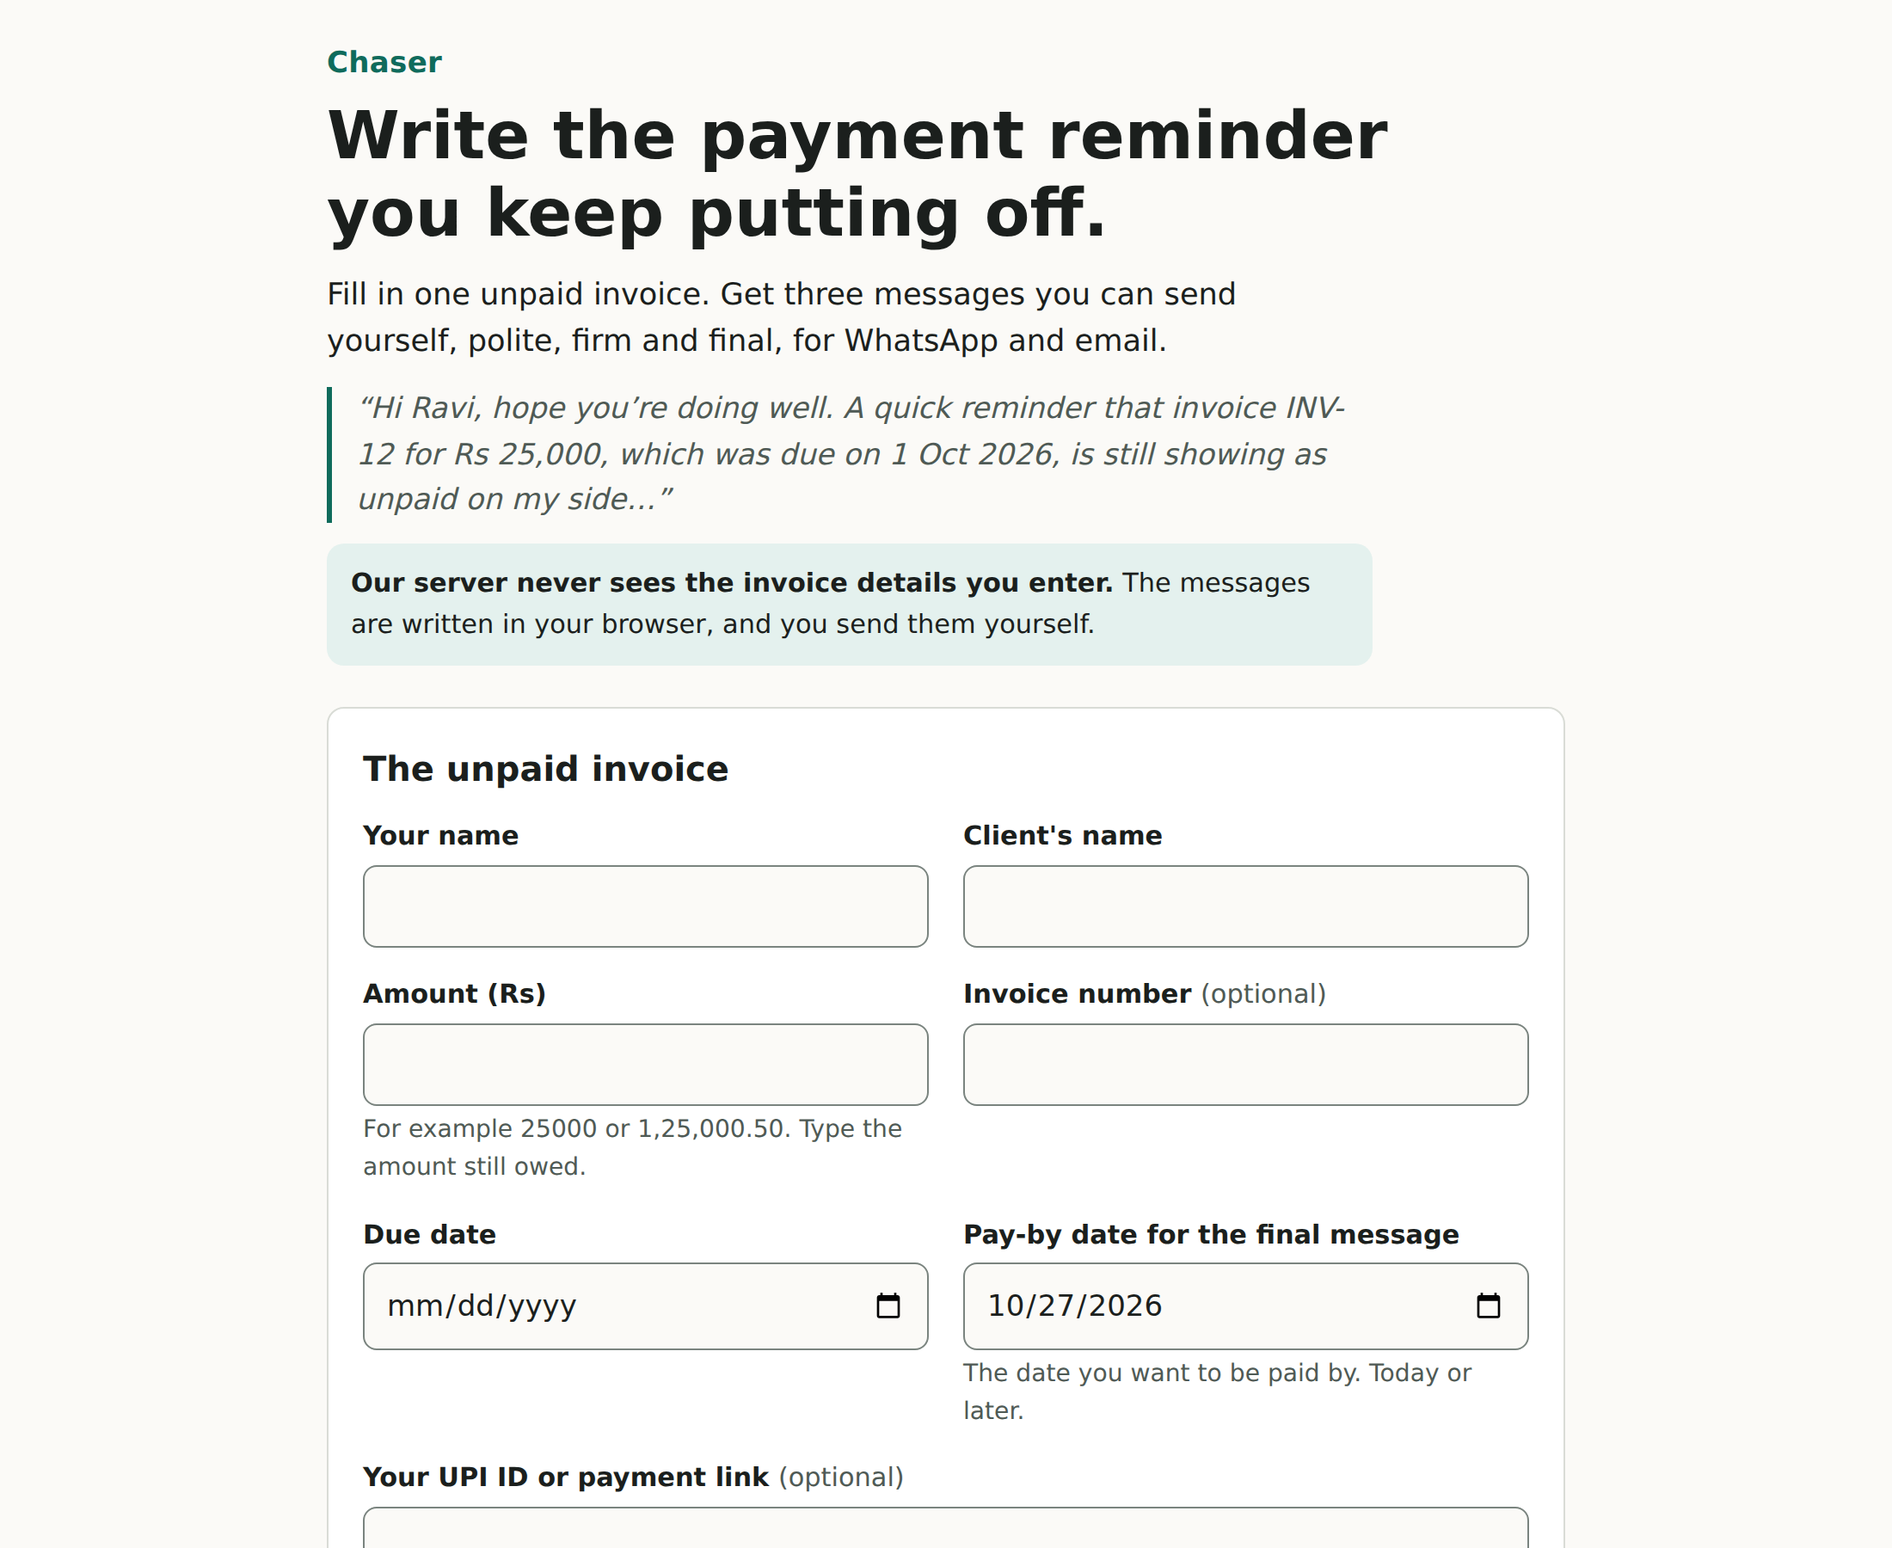
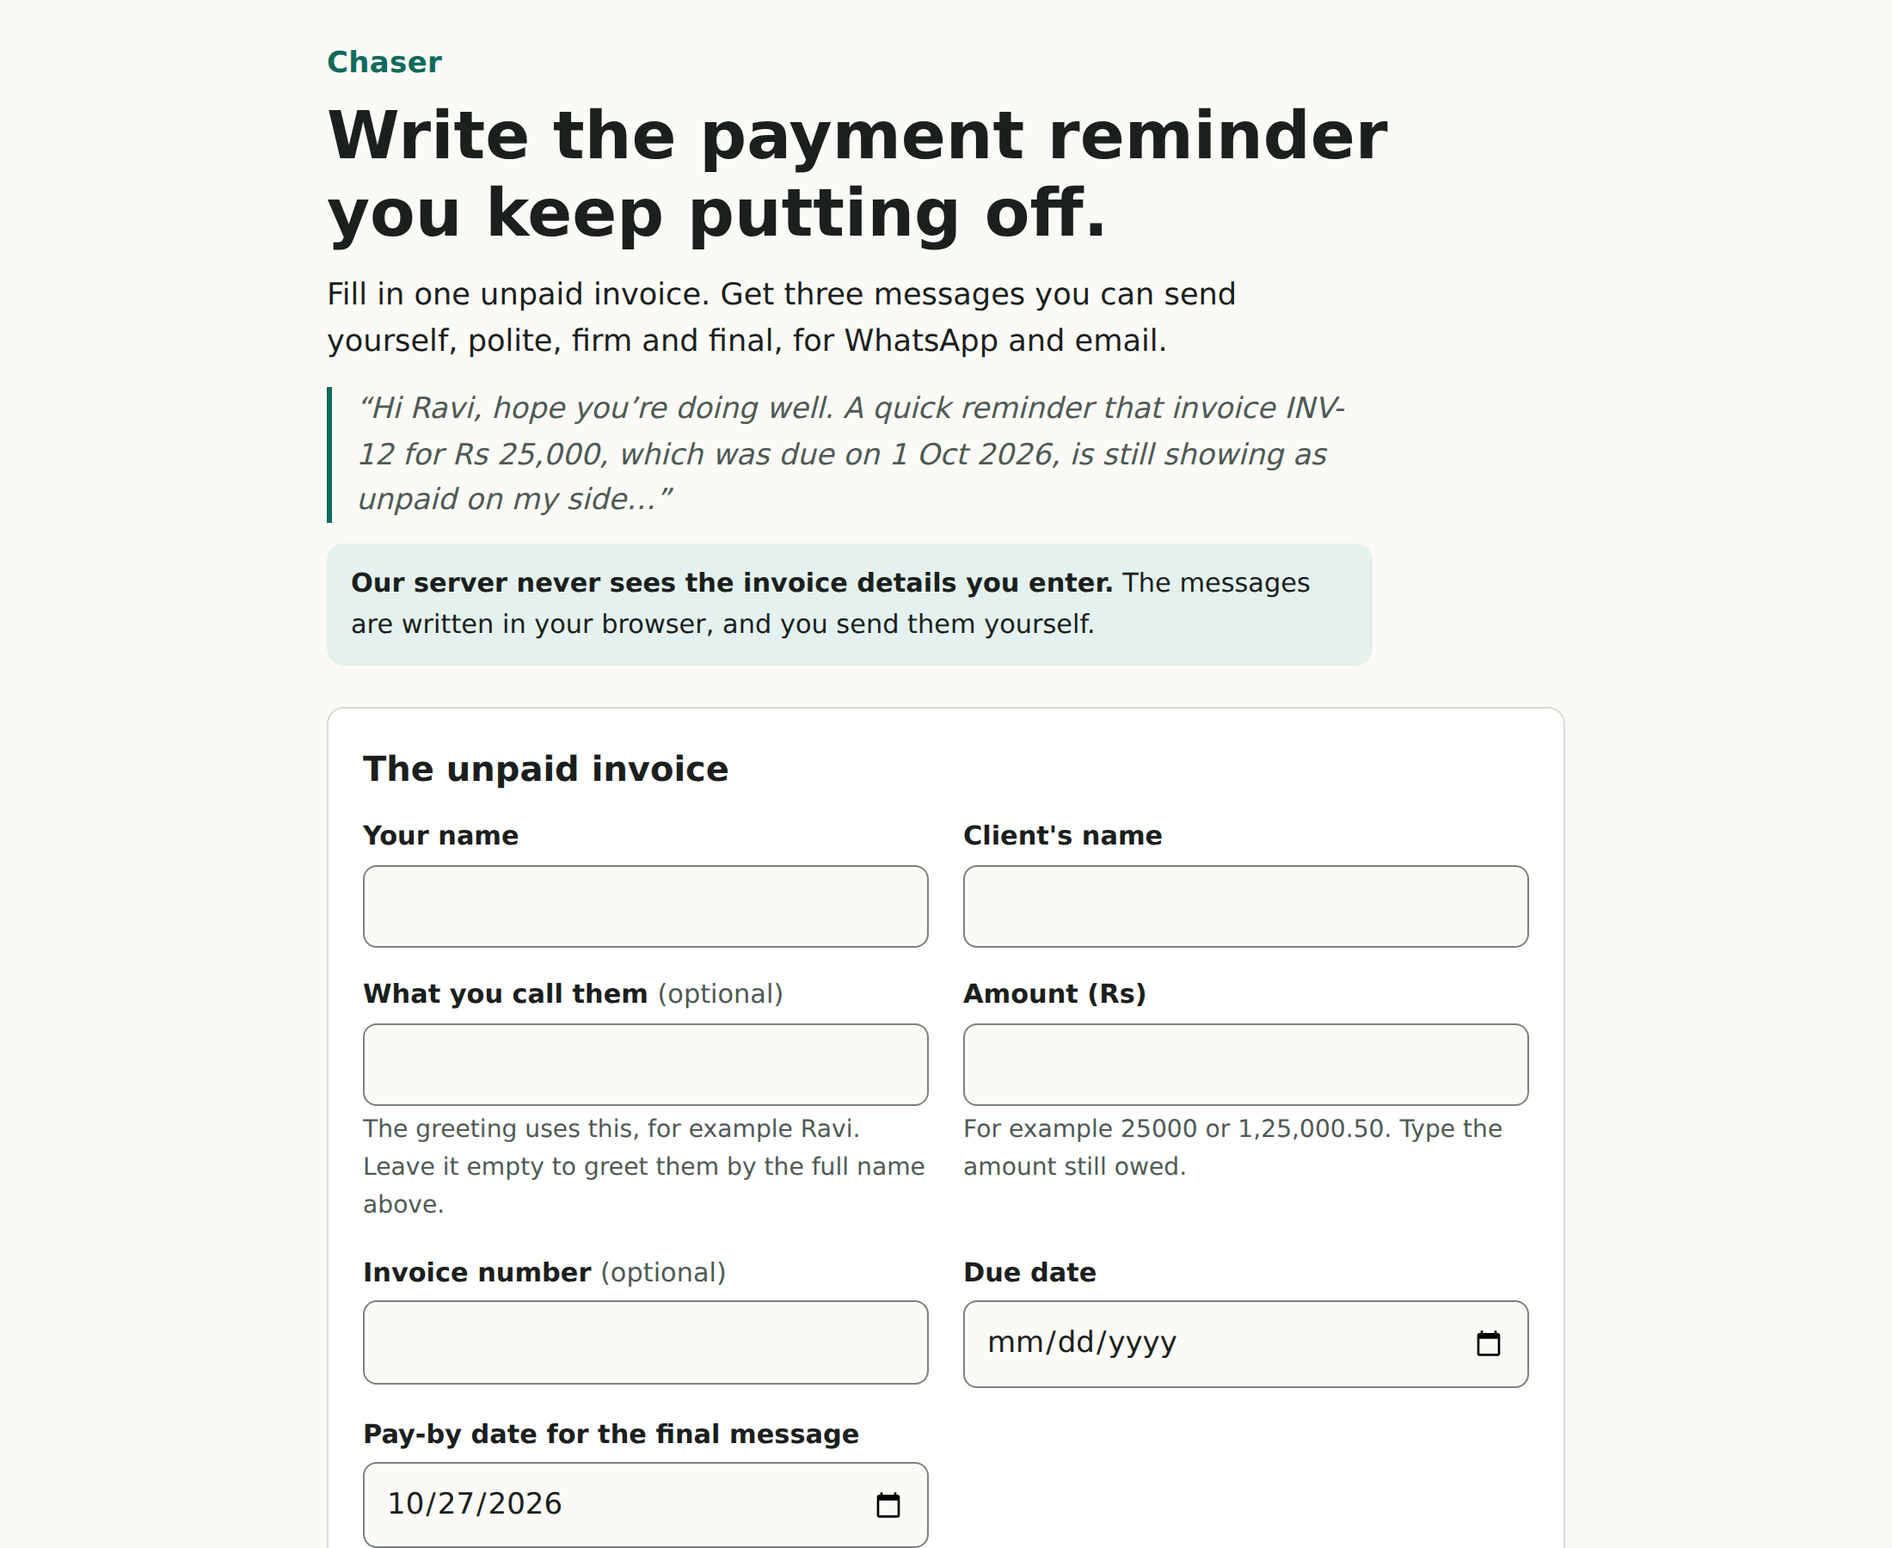
chaser: short-name greeting, Polite only when not yet due, confirm before replacing edits, suggested card first
Claude-Session: https://claude.ai/code/session_01KHRvdBp9dNMhM5LyW9cT2y

diff --git a/examples/chaser/e2e/ui.e2e.js b/examples/chaser/e2e/ui.e2e.js
@@ -57,10 +57,10 @@ test("happy path: three messages with the right amount, dates and working send l
   const polite = await page.locator("#wa-polite").inputValue();
   assert.match(polite, /^Hi Ravi Traders,/);
   assert.match(polite, /Rs 1,25,000\.50/);
-  const href = await page.locator("article.msg").first().getByRole("link", { name: "Open in WhatsApp" }).getAttribute("href");
+  const href = await page.locator("article.msg:has(#wa-polite)").getByRole("link", { name: "Open in WhatsApp" }).getAttribute("href");
   assert.ok(href.startsWith("https://wa.me/?text="));
   assert.equal(decodeURIComponent(href.slice(20)), polite);
-  const link = page.locator("article.msg").first().getByRole("link", { name: "Open in WhatsApp" });
+  const link = page.locator("article.msg:has(#wa-polite)").getByRole("link", { name: "Open in WhatsApp" });
   assert.equal(await link.getAttribute("rel"), "noopener noreferrer");
   assert.equal(await link.getAttribute("target"), "_blank");
   assert.match(await page.locator("#wa-final").inputValue(), /pay further work|pause further work/);
@@ -74,11 +74,12 @@ test("results: the suggested message is marked, every message is fully visible, 
   await page.locator("#results").waitFor();
   assert.match(await page.locator("#summary").innerText(), /Suggested: start with Firm/);
   const cards = page.locator("article.msg");
-  assert.equal(await cards.nth(1).getAttribute("class"), "card msg suggested");
-  assert.equal(await cards.nth(1).locator(".tag").innerText(), "Suggested");
+  assert.equal(await cards.nth(0).getAttribute("class"), "card msg suggested", "the suggested message comes first");
+  assert.equal(await cards.nth(0).locator("textarea").getAttribute("id"), "wa-firm");
+  assert.equal(await cards.nth(0).locator(".tag").innerText(), "Suggested");
   assert.equal(await page.locator(".tag").count(), 1);
   assert.equal(await page.locator("article.msg a.btn:not(.quiet)").count() >= 1, true);
-  assert.equal(await cards.nth(0).getByRole("link", { name: "Open in WhatsApp" }).getAttribute("class"), "btn quiet");
+  assert.equal(await cards.nth(1).getByRole("link", { name: "Open in WhatsApp" }).getAttribute("class"), "btn quiet");
   for (const id of ["wa-polite", "wa-firm", "wa-final"]) {
     const clipped = await page.locator("#" + id).evaluate((t) => t.scrollHeight > t.clientHeight + 2);
     assert.equal(clipped, false, `${id} is cut off`);
@@ -101,7 +102,7 @@ test("editing a message updates its WhatsApp link", async () => {
   const { context, page } = await newPage();
   await generate(page);
   await page.locator("#wa-firm").fill("My own words, Rs 5 only");
-  const href = await page.locator("article.msg").nth(1).getByRole("link", { name: "Open in WhatsApp" }).getAttribute("href");
+  const href = await page.locator("article.msg:has(#wa-firm)").getByRole("link", { name: "Open in WhatsApp" }).getAttribute("href");
   assert.equal(decodeURIComponent(href.slice(20)), "My own words, Rs 5 only");
   await context.close();
 });
@@ -110,13 +111,36 @@ test("review fixes: a rupee sign is accepted, the email text can be copied, and 
   const { context, page } = await newPage(open, { permissions: ["clipboard-read", "clipboard-write"] });
   await generate(page, { amount: "\u20b925,000" });
   assert.match(await page.locator("#check").innerText(), /Rs 25,000/);
-  const card = page.locator("article.msg").nth(1);
+  const card = page.locator("article.msg:has(#wa-firm)");
   await card.locator("summary").click();
   await card.getByRole("button", { name: /Copy the firm email/ }).click();
   const copied = await page.evaluate(() => navigator.clipboard.readText());
   assert.match(copied, /^Subject: .+\n\n[\s\S]*Rs 25,000/);
   await page.getByRole("button", { name: "I would pay for this" }).click();
   assert.equal(await page.evaluate(() => document.activeElement?.id), "door-thanks");
+  await context.close();
+});
+
+test("review fixes 2: the greeting can use a short name; an invoice not yet due shows Polite and keeps the rest behind a button; edits are not replaced without asking", async () => {
+  const { context, page } = await newPage();
+  await generate(page, { call: "Ravi", due: shift(5) });
+  assert.match(await page.locator("#wa-polite").inputValue(), /^Hi Ravi,/);
+  assert.equal(await page.locator("#later").isHidden(), true, "firm and final wait behind a button");
+  assert.equal(await page.locator("article.msg:visible").count(), 1);
+  await page.getByRole("button", { name: "Show the firm and final messages" }).click();
+  assert.equal(await page.locator("article.msg:visible").count(), 3);
+  assert.equal(await page.evaluate(() => document.activeElement.tagName), "TEXTAREA");
+  // an edited message is not thrown away silently
+  await page.locator("#wa-polite").fill("My own words");
+  let asked = 0;
+  page.once("dialog", (d) => { asked++; d.dismiss(); });
+  await page.getByRole("button", { name: "Write my messages" }).click();
+  assert.equal(asked, 1);
+  assert.equal(await page.locator("#wa-polite").inputValue(), "My own words", "Cancel keeps the edit");
+  page.once("dialog", (d) => { asked++; d.accept(); });
+  await page.getByRole("button", { name: "Write my messages" }).click();
+  assert.equal(asked, 2);
+  assert.match(await page.locator("#wa-polite").inputValue(), /^Hi Ravi,/, "OK writes fresh messages");
   await context.close();
 });
 
@@ -258,7 +282,7 @@ test("only the keyboard: fill every field by typing, submit, reach copy and send
   const mdy = (iso) => { const [y, m, d] = iso.split("-"); return m + d + y; };
   await page.locator("#me").focus();
   const order = [];
-  for (const [id, text] of [["me", "Asha"], ["client", "Ravi"], ["amount", "5000"], ["invoice", ""], ["due", mdy(shift(-3))], ["deadline", mdy(shift(5))], ["pay", ""]]) {
+  for (const [id, text] of [["me", "Asha"], ["client", "Ravi"], ["call", ""], ["amount", "5000"], ["invoice", ""], ["due", mdy(shift(-3))], ["deadline", mdy(shift(5))], ["pay", ""]]) {
     assert.equal(await page.evaluate(() => document.activeElement.id), id, `focus should be on ${id}`);
     order.push(id);
     if (text) await page.keyboard.type(text);
@@ -266,7 +290,7 @@ test("only the keyboard: fill every field by typing, submit, reach copy and send
     // a date field has month, day and year parts: after typing all three, one more Tab leaves it
     if ((id === "due" || id === "deadline") && (await page.evaluate(() => document.activeElement.id)) === id) await page.keyboard.press("Tab");
   }
-  assert.deepEqual(order, ["me", "client", "amount", "invoice", "due", "deadline", "pay"]);
+  assert.deepEqual(order, ["me", "client", "call", "amount", "invoice", "due", "deadline", "pay"]);
   assert.equal(await page.evaluate(() => document.activeElement.textContent), "Write my messages");
   await page.keyboard.press("Enter");
   await page.locator("#results").waitFor();

diff --git a/examples/chaser/public/app.js b/examples/chaser/public/app.js
@@ -3,7 +3,7 @@ import { validateInput, generateMessages, whatsappLink, mailtoLink, formatRupees
 const $ = (id) => document.getElementById(id);
 const params = new URLSearchParams(location.search);
 const src = params.get("src") ?? undefined;
-const FIELDS = ["me", "client", "amount", "invoice", "due", "deadline", "pay"];
+const FIELDS = ["me", "client", "call", "amount", "invoice", "due", "deadline", "pay"];
 /** Which message fits today: a few days late, about two weeks late, or well past that. Only a suggestion. */
 const suggest = (days) => (days <= 0 ? "polite" : days <= 7 ? "polite" : days <= 21 ? "firm" : "final");
 const WHEN = {
@@ -75,6 +75,7 @@ $("form").addEventListener("submit", (e) => {
   const result = validateInput(readForm(), today);
   showErrors(result.errors);
   if (!result.ok) return;
+  if ($("messages").querySelector("textarea[data-edited]") && !confirm("Writing the messages again will replace the changes you made to them. Continue?")) return;
   render(result.value, today);
   track("generate");
 });
@@ -93,13 +94,21 @@ function render(v, today) {
   const label = out.messages.find((m) => m.tone === best).label;
   $("summary").textContent = out.overdue
     ? `This invoice is ${out.days} day${out.days === 1 ? "" : "s"} overdue (counted from today's date on your device). Suggested: start with ${label}.`
-    : "This invoice is not overdue yet, so the polite message fits best. Keep the firm and final ones for later.";
+    : "This invoice is not overdue yet, so the polite message fits best. The firm and final ones are below, for later.";
   const check = $("check"); check.textContent = "";
   const rows = [["Client", v.client], ["Amount", formatRupees(v.paise)], ["Due date", formatDate(v.due)], ["Pay-by date (final message)", formatDate(v.deadline)], ["Pay to", v.pay || "No payment details added"]];
   for (const [k, val] of rows) check.append(el("dt", { text: k }), el("dd", { text: val }));
 
   const box = $("messages"); box.textContent = "";
-  for (const m of out.messages) box.append(messageCard(m, m.tone === best));
+  // The suggested message comes first; when nothing is overdue the other two wait behind a button.
+  const ordered = [...out.messages.filter((m) => m.tone === best), ...out.messages.filter((m) => m.tone !== best)];
+  const later = out.overdue ? null : el("div", { id: "later", hidden: "" });
+  ordered.forEach((m, i) => (later && i > 0 ? later : box).append(messageCard(m, m.tone === best)));
+  if (later) {
+    const show = el("button", { type: "button", class: "secondary", "aria-controls": "later", "aria-expanded": "false", text: "Show the firm and final messages" });
+    show.addEventListener("click", () => { later.hidden = false; show.hidden = true; later.querySelector("textarea").focus(); });
+    box.append(show, later);
+  }
   const results = $("results"); results.hidden = false;
   results.focus(); results.scrollIntoView({ behavior: matchMedia("(prefers-reduced-motion: reduce)").matches ? "auto" : "smooth", block: "start" });
 }
@@ -109,7 +118,7 @@ function messageCard(m, suggested) {
   const ta = el("textarea", { id: `wa-${m.tone}`, "aria-label": `${m.label} message for WhatsApp, you can edit it`, spellcheck: "true" });
   ta.value = m.whatsapp;
   const wa = el("a", { class: suggested ? "btn" : "btn quiet", href: whatsappLink(m.whatsapp), target: "_blank", rel: "noopener noreferrer", text: "Open in WhatsApp" });
-  ta.addEventListener("input", () => { wa.href = whatsappLink(ta.value); grow(ta); });
+  ta.addEventListener("input", () => { wa.href = whatsappLink(ta.value); grow(ta); ta.dataset.edited = "1"; });
   const copy = el("button", { type: "button", class: "secondary", text: "Copy text" });
   const asked = el("p", { class: "sent", hidden: "" });
   const askSent = () => {

diff --git a/examples/chaser/tests/core.test.js b/examples/chaser/tests/core.test.js
@@ -150,3 +150,12 @@ test("generating messages makes no network call and reads no browser state (pure
   globalThis.fetch = () => { throw new Error("network call during generation"); };
   try { gen(); } finally { globalThis.fetch = saved.fetch; }
 });
+
+test("greeting: uses 'what you call them' when given, the full client name otherwise, and the optional field is length-checked", () => {
+  assert.match(gen({ call: "Ravi" }).messages[0].whatsapp, /^Hi Ravi,\n/);
+  assert.match(gen({ call: "Ravi" }).messages[0].email.body, /^Dear Ravi,\n/);
+  assert.match(gen({ call: "  " }).messages[0].whatsapp, /^Hi Ravi Traders,\n/);
+  assert.match(gen().messages[2].whatsapp, /^Hi Ravi Traders,\n/);
+  assert.equal(validateInput({ ...base, call: "x".repeat(31) }, TODAY).ok, false);
+  assert.equal(validateInput({ ...base, call: "Ra\nvi" }, TODAY).ok, false);
+});

diff --git a/examples/chaser/public/index.html b/examples/chaser/public/index.html
@@ -34,6 +34,12 @@
         <p class="err" id="client-err"></p>
       </div>
       <div class="field">
+        <label for="call">What you call them <span class="opt">(optional)</span></label>
+        <input id="call" name="call" type="text" autocomplete="off" maxlength="30" aria-describedby="call-hint call-err">
+        <p class="hint" id="call-hint">The greeting uses this, for example Ravi. Leave it empty to greet them by the full name above.</p>
+        <p class="err" id="call-err"></p>
+      </div>
+      <div class="field">
         <label for="amount">Amount (Rs)</label>
         <input id="amount" name="amount" type="text" inputmode="decimal" autocomplete="off" required aria-describedby="amount-hint amount-err">
         <p class="hint" id="amount-hint">For example 25000 or 1,25,000.50. Type the amount still owed.</p>

diff --git a/examples/chaser/src/core/messages.js b/examples/chaser/src/core/messages.js
@@ -31,7 +31,7 @@ export function generateMessages(v, today) {
   const when = overdue ? `which was due on ${due}` : days === 0 ? `which is due today (${due})` : `which is due on ${due}`;
   const ago = overdue ? ` (${days} day${days === 1 ? "" : "s"} ago)` : "";
   const sign = v.me;
-  const hi = `Hi ${v.client},`;
+  const hi = `Hi ${v.call || v.client},`; // "what you call them" is optional; the full client name is the default
 
   const polite = {
     wa: lines(

diff --git a/examples/chaser/src/core/validate.js b/examples/chaser/src/core/validate.js
@@ -20,6 +20,7 @@ export function validateInput(raw, today) {
   const value = {
     me: text("me", "your name", 60),
     client: text("client", "the client's name", 60),
+    call: text("call", "what you call them", 30, false),
     invoice: text("invoice", "the invoice number", 30, false),
     pay: text("pay", "a UPI ID or payment link", 120, false),
   };

diff --git a/examples/chaser/docs/design-critique.md b/examples/chaser/docs/design-critique.md
@@ -30,15 +30,15 @@ Evidence: `docs/screenshots/before/` (the build before the first critique, regen
 
 | # | Finding | Status |
 |---|---|---|
-| 1 | Greeting uses the full client name ("Hi Ravi Kumar"), sample says "Hi Ravi" | **Open, owner decision.** First-word greetings break on "Dr Rao" and company names; a "what do you call them" field is the safer fix |
+| 1 | Greeting uses the full client name ("Hi Ravi Kumar"), sample says "Hi Ravi" | **Fixed.** A first-word greeting would break on "Dr Rao" and company names, so there is a new optional field "What you call them"; empty means the full name as before (unit and browser tests) |
 | 2 | The rupee sign was rejected; a bare phone number is not a valid UPI ID | **Half fixed.** The rupee sign is now accepted (test added). The phone-number hint is open |
 | 3 | Email version could not be copied | **Fixed.** "Copy email" copies subject and text (browser test added) |
 | 4 | Fixed wording; "pause further work" is wrong if work is finished | **Mitigated.** Line added above the cards: edit anything that is not true for you. A "work is ongoing" switch is open |
-| 5 | Invoice not yet due still shows Firm and Final cards | **Open, owner decision** (hide behind "show later reminders") |
-| 6 | Writing the messages again silently overwrites edits | **Open** (confirm before replacing edited text) |
+| 5 | Invoice not yet due still shows Firm and Final cards | **Fixed.** Not overdue: only Polite is shown, the other two wait behind "Show the firm and final messages" (browser test) |
+| 6 | Writing the messages again silently overwrites edits | **Fixed.** Writing again asks before replacing edited text; Cancel keeps the edits (browser test) |
 | 7 | Error summary duplicates inline errors, uses default link colours | **Half fixed.** Links now use the theme error colour. Duplication kept: the summary is how a screen reader and keyboard user finds the first error |
 | 8 | Focus lost to the page after "I would pay for this" | **Fixed.** Focus moves to the confirmation (browser test added) |
 | 9 | "Pick the contact" hint far from the buttons | **Fixed.** Moved under the summary, before the cards |
-| 10 | On a phone the suggested card is second, results start far down | **Open** (suggested card first) |
+| 10 | On a phone the suggested card is second, results start far down | **Fixed.** The suggested card comes first (browser test) |
 
-After the changes: 39 of 39 unit tests, 18 of 18 browser tests (axe included, light and dark) pass.
+After the first round: 39 of 39 unit tests, 18 of 18 browser tests (axe included, light and dark) pass. Second round (findings 1, 5, 6, 10 above): 40 of 40 unit tests, 19 of 19 browser tests, and the mutation check kills every mutant. Still open: the phone-number UPI hint (2), a "work is ongoing" switch (4), and the summary/inline error duplication (7, kept on purpose).
